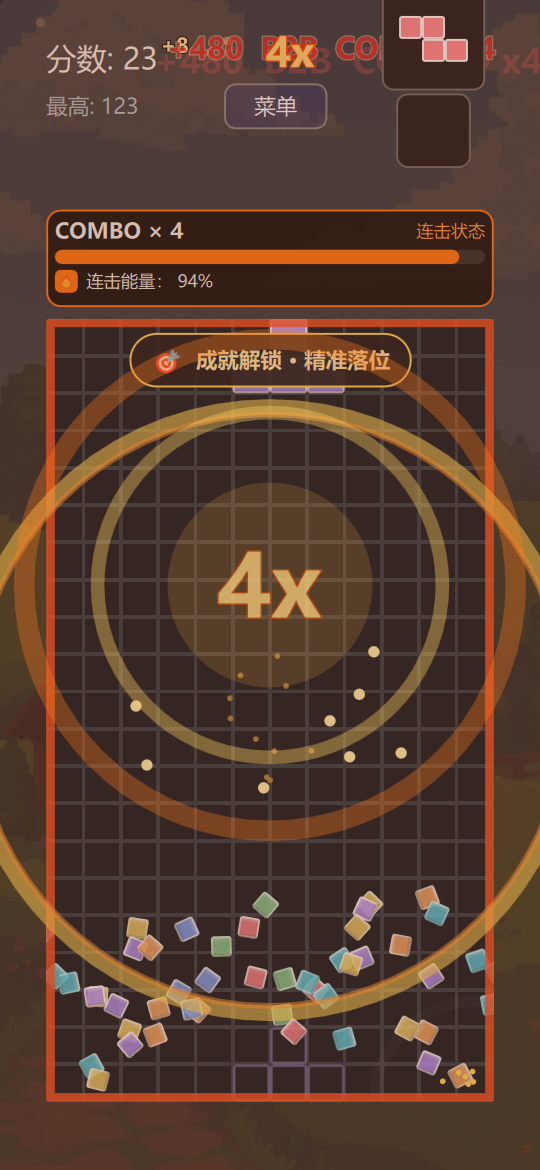
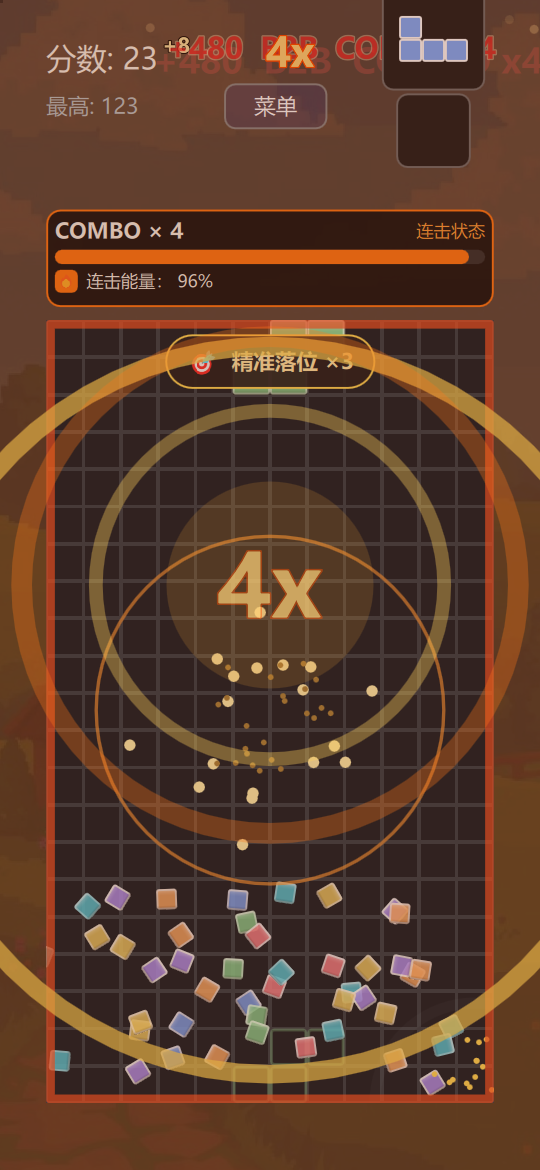
街机档特效全面加码（用户要求有过之无不及）：震屏1.35×/白闪1.0全白150ms/粒子1.5×/边框呼吸满幅快摆1.0↔0.25/冲击环3.1·2.0+更亮/三消碎片14颗/落锁整行闪光街机全亮快闪/B2B待命角标街机档脉冲闪烁（治愈/护眼/减少动态全部不受影响，arcadeFx 门控）；修复角标编辑引入的多余右括号；补丁v19

diff --git a/Main.qml b/Main.qml
@@ -174,19 +174,20 @@ ApplicationWindow {
     readonly property bool calmFx: eyeCare || reduceMotion   // 统一闸门：无白闪/无震屏/无爆闪粒子/无背景漂移
     readonly property bool zenFx: fxPreset === "zen"
     // 参数表（全部走缩放系数，随时可调）
-    readonly property real fxShakeScale: calmFx ? 0 : (zenFx ? 0.4 : 1.0)      // 震屏幅度
-    readonly property int  fxFlashMs: calmFx ? 0 : (zenFx ? 240 : 180)         // 全屏白闪衰减时长
-    readonly property real fxFlashPeak: calmFx ? 0 : (zenFx ? 0.22 : 0.85)     // 白闪峰值（治愈=轻柔提亮）
-    readonly property real fxParticleScale: calmFx ? 0 : (zenFx ? 0.65 : 1.0)  // 粒子数量
-    readonly property real fxBreathScale: eyeCare ? 3.2 : reduceMotion ? 2.2 : (zenFx ? 1.6 : 1.0)   // 呼吸/闪烁周期倍率
+    readonly property real fxShakeScale: calmFx ? 0 : (zenFx ? 0.4 : 1.35)      // 震屏幅度（街机加码 1.35×）
+    readonly property int  fxFlashMs: calmFx ? 0 : (zenFx ? 240 : 150)         // 街机白闪更快
+    readonly property real fxFlashPeak: calmFx ? 0 : (zenFx ? 0.22 : 1.0)      // 街机全白
+    readonly property real fxParticleScale: calmFx ? 0 : (zenFx ? 0.65 : 1.5)  // 街机粒子 1.5×
+    readonly property real fxBreathScale: eyeCare ? 3.2 : reduceMotion ? 2.2 : (zenFx ? 1.6 : 0.75)   // 街机呼吸更快
+    readonly property bool arcadeFx: !calmFx && !zenFx   // 街机档专属表现（护眼/减少动态不受影响）
     // 落锁闪光：每次落块都会触发（约 1Hz），白光最扎眼 → 护眼模式改成方块自身色的柔和提亮
-    // （0.6：保留落块确认感，仍远低于白闪的 0.9）
-    readonly property real fxLockFlashAlpha: eyeCare ? 0.6 : 0.9
-    readonly property int  fxLockFlashMs: eyeCare ? 240 : 270
+    // （0.6：保留落块确认感，仍远低于白闪的 0.9）；街机全亮+更干脆
+    readonly property real fxLockFlashAlpha: eyeCare ? 0.6 : (arcadeFx ? 1.0 : 0.9)
+    readonly property int  fxLockFlashMs: eyeCare ? 240 : (arcadeFx ? 210 : 270)
     // 整行爆闪：一整行 12 格同时转白，是全屏最大的亮度阶跃
-    // （0.35：确认感保留，峰值只有街机档的 40%）
-    readonly property real fxRowFlashAlpha: eyeCare ? 0.35 : 0.85
-    readonly property int  fxRowFlashMs: eyeCare ? 320 : 200
+    // （0.35：确认感保留，峰值只有街机档的 40%）；街机全亮快闪
+    readonly property real fxRowFlashAlpha: eyeCare ? 0.35 : (arcadeFx ? 1.0 : 0.85)
+    readonly property int  fxRowFlashMs: eyeCare ? 320 : (arcadeFx ? 150 : 200)
     readonly property bool smoothFall: eyeCare                                 // 平滑下落（消除快速下落的阶跃频闪）
     readonly property int  breakReminderMinutes: 20                            // 休息提醒间隔（分钟）
     property bool fxSurge: false           // P1 大事件进行中：背景/氛围层让位（压暗+减速）
@@ -769,10 +770,10 @@ ApplicationWindow {
     SequentialAnimation {
         id: tetrisRingsAnimation
         ParallelAnimation {
-            NumberAnimation { target: tetrisRing1; property: "scale"; from: 0.25; to: 2.6; duration: 800; easing.type: Easing.OutCubic }
-            NumberAnimation { target: tetrisRing1; property: "opacity"; from: 0.85; to: 0; duration: 800 }
-            NumberAnimation { target: tetrisRing2; property: "scale"; from: 0.15; to: 1.7; duration: 1050; easing.type: Easing.OutCubic }
-            NumberAnimation { target: tetrisRing2; property: "opacity"; from: 0.7; to: 0; duration: 1050 }
+            NumberAnimation { target: tetrisRing1; property: "scale"; from: 0.25; to: root.arcadeFx ? 3.1 : 2.6; duration: 800; easing.type: Easing.OutCubic }
+            NumberAnimation { target: tetrisRing1; property: "opacity"; from: root.arcadeFx ? 1.0 : 0.85; to: 0; duration: 800 }
+            NumberAnimation { target: tetrisRing2; property: "scale"; from: 0.15; to: root.arcadeFx ? 2.0 : 1.7; duration: 1050 }
+            NumberAnimation { target: tetrisRing2; property: "opacity"; from: root.arcadeFx ? 0.85 : 0.7; to: 0; duration: 1050 }
         }
         onStopped: {
             tetrisRing1.visible = false
@@ -1392,7 +1393,7 @@ ApplicationWindow {
         }
         if (linesCleared === 3) {
             for (var i = 0; i < clearedRows.length; i++)
-                debrisBurst.burst(7, gameBoard.width / 2,
+                debrisBurst.burst(arcadeFx ? 14 : 7, gameBoard.width / 2,
                                   clearedRows[i] * blockSize + blockSize / 2)
         }
     }
@@ -2566,7 +2567,8 @@ ApplicationWindow {
                 styleColor: "#000000"
             }
 
-            // B2B 待命角标：上一次消行为四消，×1.5 加成待命（连击 ≥2 时由燃烧边框表达）
+            // B2B 待命角标：上一次消行为四消，×1.5 加成待命（连击 ≥2 时由燃烧边框表达）。
+            // 街机档角标脉冲闪烁（特效加回来有过之无不及）；治愈/护眼静态
             Rectangle {
                 visible: b2bActive && comboStreak < 2 && !isGameOver
                 anchors.top: parent.top
@@ -2579,6 +2581,14 @@ ApplicationWindow {
                 color: "#E6141408"
                 border.color: "#ffd95a"
                 border.width: 1
+                opacity: arcadeFx ? 0.55 : 1.0
+
+                SequentialAnimation on opacity {
+                    running: arcadeFx && b2bActive && comboStreak < 2 && visible && !isPaused
+                    loops: Animation.Infinite
+                    NumberAnimation { to: 1.0; duration: 260; easing.type: Easing.OutQuad }
+                    NumberAnimation { to: 0.45; duration: 260; easing.type: Easing.InQuad }
+                }
                 Text {
                     id: b2bTagText
                     anchors.centerIn: parent
@@ -3082,14 +3092,14 @@ ApplicationWindow {
                 SequentialAnimation on opacity {
                     running: comboStreak >= 2 && !isPaused && !calmFx
                     loops: Animation.Infinite
-                    // 治愈档呼吸幅度减半（0.82↔0.58）降低闪烁刺激；街机保持原幅度
+                    // 治愈档呼吸幅度减半（0.82↔0.58）降低闪烁刺激；街机满幅快摆（1.0↔0.25）
                     NumberAnimation {
-                        to: zenFx ? 0.82 : 0.95
+                        to: zenFx ? 0.82 : 1.0
                         duration: Math.round((comboStreak >= 7 ? 160 : comboStreak >= 4 ? 260 : 420) * fxBreathScale)
                         easing.type: Easing.OutQuad
                     }
                     NumberAnimation {
-                        to: zenFx ? 0.58 : 0.35
+                        to: zenFx ? 0.58 : 0.25
                         duration: Math.round((comboStreak >= 7 ? 160 : comboStreak >= 4 ? 260 : 420) * fxBreathScale)
                         easing.type: Easing.InQuad
                     }

diff --git a/leaderboard/apk/patch/Main.qml b/leaderboard/apk/patch/Main.qml
@@ -174,19 +174,20 @@ ApplicationWindow {
     readonly property bool calmFx: eyeCare || reduceMotion   // 统一闸门：无白闪/无震屏/无爆闪粒子/无背景漂移
     readonly property bool zenFx: fxPreset === "zen"
     // 参数表（全部走缩放系数，随时可调）
-    readonly property real fxShakeScale: calmFx ? 0 : (zenFx ? 0.4 : 1.0)      // 震屏幅度
-    readonly property int  fxFlashMs: calmFx ? 0 : (zenFx ? 240 : 180)         // 全屏白闪衰减时长
-    readonly property real fxFlashPeak: calmFx ? 0 : (zenFx ? 0.22 : 0.85)     // 白闪峰值（治愈=轻柔提亮）
-    readonly property real fxParticleScale: calmFx ? 0 : (zenFx ? 0.65 : 1.0)  // 粒子数量
-    readonly property real fxBreathScale: eyeCare ? 3.2 : reduceMotion ? 2.2 : (zenFx ? 1.6 : 1.0)   // 呼吸/闪烁周期倍率
+    readonly property real fxShakeScale: calmFx ? 0 : (zenFx ? 0.4 : 1.35)      // 震屏幅度（街机加码 1.35×）
+    readonly property int  fxFlashMs: calmFx ? 0 : (zenFx ? 240 : 150)         // 街机白闪更快
+    readonly property real fxFlashPeak: calmFx ? 0 : (zenFx ? 0.22 : 1.0)      // 街机全白
+    readonly property real fxParticleScale: calmFx ? 0 : (zenFx ? 0.65 : 1.5)  // 街机粒子 1.5×
+    readonly property real fxBreathScale: eyeCare ? 3.2 : reduceMotion ? 2.2 : (zenFx ? 1.6 : 0.75)   // 街机呼吸更快
+    readonly property bool arcadeFx: !calmFx && !zenFx   // 街机档专属表现（护眼/减少动态不受影响）
     // 落锁闪光：每次落块都会触发（约 1Hz），白光最扎眼 → 护眼模式改成方块自身色的柔和提亮
-    // （0.6：保留落块确认感，仍远低于白闪的 0.9）
-    readonly property real fxLockFlashAlpha: eyeCare ? 0.6 : 0.9
-    readonly property int  fxLockFlashMs: eyeCare ? 240 : 270
+    // （0.6：保留落块确认感，仍远低于白闪的 0.9）；街机全亮+更干脆
+    readonly property real fxLockFlashAlpha: eyeCare ? 0.6 : (arcadeFx ? 1.0 : 0.9)
+    readonly property int  fxLockFlashMs: eyeCare ? 240 : (arcadeFx ? 210 : 270)
     // 整行爆闪：一整行 12 格同时转白，是全屏最大的亮度阶跃
-    // （0.35：确认感保留，峰值只有街机档的 40%）
-    readonly property real fxRowFlashAlpha: eyeCare ? 0.35 : 0.85
-    readonly property int  fxRowFlashMs: eyeCare ? 320 : 200
+    // （0.35：确认感保留，峰值只有街机档的 40%）；街机全亮快闪
+    readonly property real fxRowFlashAlpha: eyeCare ? 0.35 : (arcadeFx ? 1.0 : 0.85)
+    readonly property int  fxRowFlashMs: eyeCare ? 320 : (arcadeFx ? 150 : 200)
     readonly property bool smoothFall: eyeCare                                 // 平滑下落（消除快速下落的阶跃频闪）
     readonly property int  breakReminderMinutes: 20                            // 休息提醒间隔（分钟）
     property bool fxSurge: false           // P1 大事件进行中：背景/氛围层让位（压暗+减速）
@@ -769,10 +770,10 @@ ApplicationWindow {
     SequentialAnimation {
         id: tetrisRingsAnimation
         ParallelAnimation {
-            NumberAnimation { target: tetrisRing1; property: "scale"; from: 0.25; to: 2.6; duration: 800; easing.type: Easing.OutCubic }
-            NumberAnimation { target: tetrisRing1; property: "opacity"; from: 0.85; to: 0; duration: 800 }
-            NumberAnimation { target: tetrisRing2; property: "scale"; from: 0.15; to: 1.7; duration: 1050; easing.type: Easing.OutCubic }
-            NumberAnimation { target: tetrisRing2; property: "opacity"; from: 0.7; to: 0; duration: 1050 }
+            NumberAnimation { target: tetrisRing1; property: "scale"; from: 0.25; to: root.arcadeFx ? 3.1 : 2.6; duration: 800; easing.type: Easing.OutCubic }
+            NumberAnimation { target: tetrisRing1; property: "opacity"; from: root.arcadeFx ? 1.0 : 0.85; to: 0; duration: 800 }
+            NumberAnimation { target: tetrisRing2; property: "scale"; from: 0.15; to: root.arcadeFx ? 2.0 : 1.7; duration: 1050 }
+            NumberAnimation { target: tetrisRing2; property: "opacity"; from: root.arcadeFx ? 0.85 : 0.7; to: 0; duration: 1050 }
         }
         onStopped: {
             tetrisRing1.visible = false
@@ -1392,7 +1393,7 @@ ApplicationWindow {
         }
         if (linesCleared === 3) {
             for (var i = 0; i < clearedRows.length; i++)
-                debrisBurst.burst(7, gameBoard.width / 2,
+                debrisBurst.burst(arcadeFx ? 14 : 7, gameBoard.width / 2,
                                   clearedRows[i] * blockSize + blockSize / 2)
         }
     }
@@ -2566,7 +2567,8 @@ ApplicationWindow {
                 styleColor: "#000000"
             }
 
-            // B2B 待命角标：上一次消行为四消，×1.5 加成待命（连击 ≥2 时由燃烧边框表达）
+            // B2B 待命角标：上一次消行为四消，×1.5 加成待命（连击 ≥2 时由燃烧边框表达）。
+            // 街机档角标脉冲闪烁（特效加回来有过之无不及）；治愈/护眼静态
             Rectangle {
                 visible: b2bActive && comboStreak < 2 && !isGameOver
                 anchors.top: parent.top
@@ -2579,6 +2581,14 @@ ApplicationWindow {
                 color: "#E6141408"
                 border.color: "#ffd95a"
                 border.width: 1
+                opacity: arcadeFx ? 0.55 : 1.0
+
+                SequentialAnimation on opacity {
+                    running: arcadeFx && b2bActive && comboStreak < 2 && visible && !isPaused
+                    loops: Animation.Infinite
+                    NumberAnimation { to: 1.0; duration: 260; easing.type: Easing.OutQuad }
+                    NumberAnimation { to: 0.45; duration: 260; easing.type: Easing.InQuad }
+                }
                 Text {
                     id: b2bTagText
                     anchors.centerIn: parent
@@ -3082,14 +3092,14 @@ ApplicationWindow {
                 SequentialAnimation on opacity {
                     running: comboStreak >= 2 && !isPaused && !calmFx
                     loops: Animation.Infinite
-                    // 治愈档呼吸幅度减半（0.82↔0.58）降低闪烁刺激；街机保持原幅度
+                    // 治愈档呼吸幅度减半（0.82↔0.58）降低闪烁刺激；街机满幅快摆（1.0↔0.25）
                     NumberAnimation {
-                        to: zenFx ? 0.82 : 0.95
+                        to: zenFx ? 0.82 : 1.0
                         duration: Math.round((comboStreak >= 7 ? 160 : comboStreak >= 4 ? 260 : 420) * fxBreathScale)
                         easing.type: Easing.OutQuad
                     }
                     NumberAnimation {
-                        to: zenFx ? 0.58 : 0.35
+                        to: zenFx ? 0.58 : 0.25
                         duration: Math.round((comboStreak >= 7 ? 160 : comboStreak >= 4 ? 260 : 420) * fxBreathScale)
                         easing.type: Easing.InQuad
                     }
